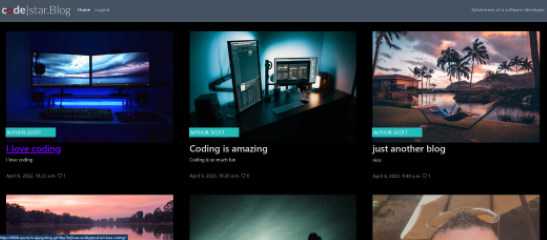
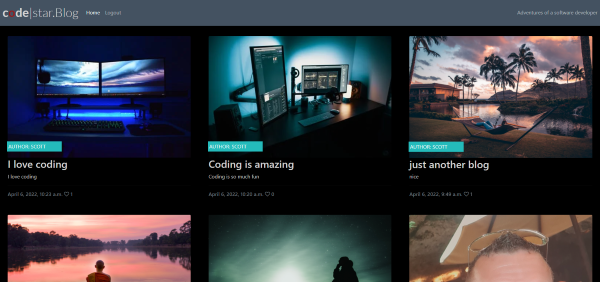
resize project boxes for better image fit

diff --git a/assets/css/style.css b/assets/css/style.css
@@ -233,7 +233,7 @@ a.hvr-bounce-to-bottom:before {
 }
 
 .projects-container .projects {
-    height: 15rem;
+    height: 14rem;
     width: 32rem;
     margin: 2rem;
     box-shadow: 0 1.3rem 1.3rem rgba(0, 0, 0);
@@ -496,7 +496,7 @@ button[type="submit"] {
     }
 
     .projects-container .projects {
-        height: 9.2rem;
+        height: 8rem;
     }
 
     img {
